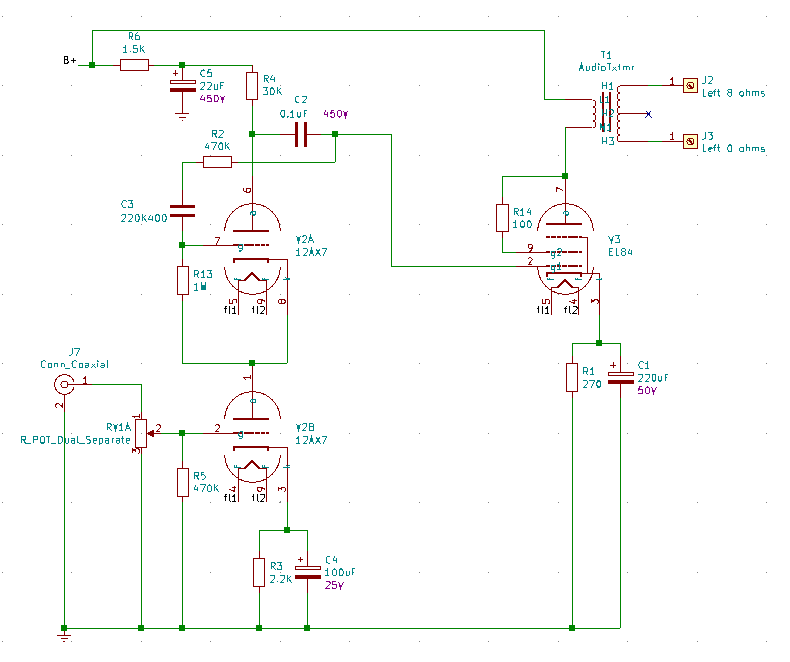
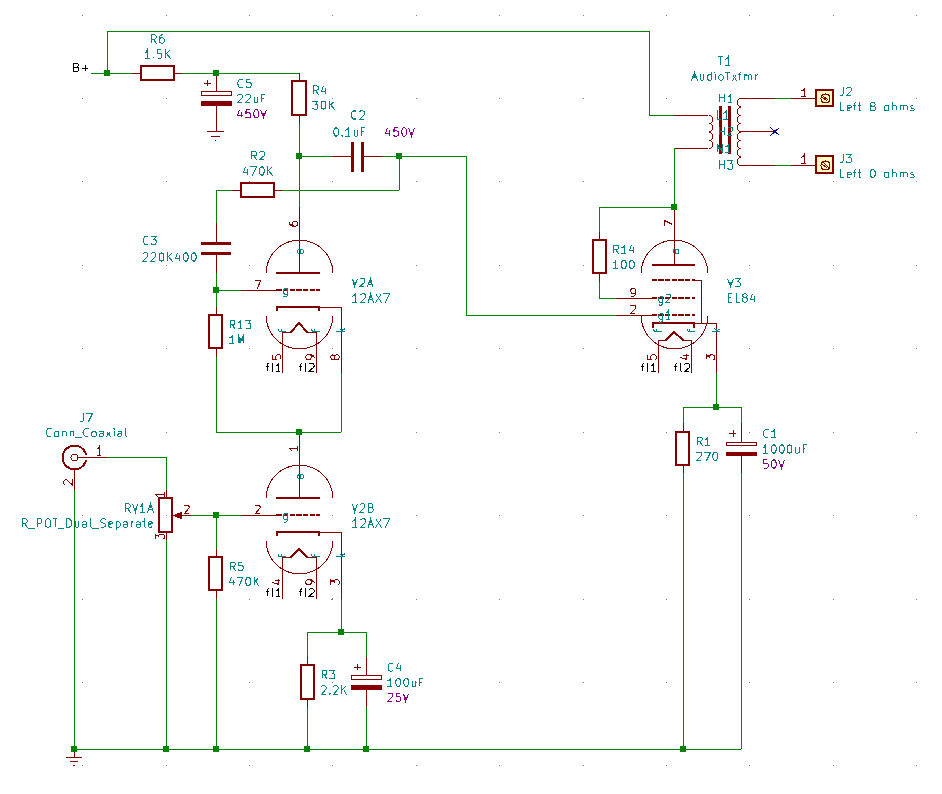
install new electrolytic capacitors

diff --git a/updated/README.md b/updated/README.md
@@ -12,6 +12,24 @@ The objective here:
 * To replace the pair of 6P1 tubes per channel with a single EL84 tube per channel.
 * The rectifier with regular diodes.
 
+### EL84 Power Tubes
+
+So based on the calculations (in the circuit analysis), to use an EL84, I would want the current through the cathode resistor to be about 40mA.  The resistor is 270 ohms, so I am looking for a voltage drop of about V=I*R or 0.04*270 or about 10V.
+
+In practise plugging in an EL84 and testing it out I see it stabilized around 11.75V. Or about 43mA. This is perfect and exactly where we would like it to be.
+
+Reading on https://www.18watt.com/viewtopic.php?t=12875 , the values we have is the values we should use. Ok then.
+
+Wire in the amp and do a test. Well. it seems to work. Let’s do the right channel.
+It sounds ok.
+
+I keep reading and finding schematics where the screen resistor should go to the B+, not the output transformer the plate goes to. This amp seems to be wired incorrectly then?
+
+Experiment to wire these to the B+. I only have the 100 ohm screen bypass resistors. I think it should be 1K.
+But when I do this, a terrible hum sound and buzzing. Ok, put that back. It might be the hum was because the resistor was 10x too low from what is recommended in this configuration? This is something I would like to understand later.
+
+### Conclusions
+
 By 2020-07-29 I was able meet my original objectives. And to do so without purchasing any electronic components or tubes. Which for me and my projects is highly unusual. And now I have a special sense of smug-ness as well.
 
 I orginally went with a 12AT7 tubes. As they have less gain then the 12AX7 tubes. But I found the sound to be crackly and brittle. I tried to replace the coupling capacitor (which is likely a 0.022uF capacitor) with a 0.1uF capacitor. This gives it a bit more bass response. But still not very good. I guess there is that problem were the 12AT7 is generally considered to be not musical at all. I ended up putting some old Mullard 12AX7 tubes I had in my junk drawer. They have "Holland" printed on them. And even do a really nice vintage filament flash when turning on. But they are really crisp and awesome sounding. Using old tubes (likely liberated from my Traynor amp) onto here is like a fine bottle of wine with peanut butter toast. But you only live once, so might as well enjoy the stuff I have rather than hoarding it forever and not using it.
@@ -51,7 +69,34 @@ We added the following parts (to the original schematic)
 
 Some small updates.
 
+* Replaced the electrolytic capacitors with United Chemicon branded capacitors. I have anxiety these capacitors are going to be the cheapest, poorest quality, Chinese made capacitors. Same voltage rating and values (except noted below).
+
+| Part | Value | Old Brand | Notes |
+|:-----|:------|:----------|:------|
+| C1   | 220uF | Samyoung  | This is now a 1000uF |
+| C4   | 100uF | Samyoung  | |
+| C5   | 22uF  | Samyoung  | |
+| C6   | 150uF | Philips   | |
+| C7   | 150uF | Philips   | |
+| C8   | 22uF  | Samyoung  | |
+| C9   | 100uF | Samyoung  | |
+| C12  | 220uF | Samyoung  | This is now a 1000uF |
+
+If they are even the brands they say they are. They could very well be counterfit even.
+
+All I see in the forums is "Replace all Philips caps!!!".
+
+Samyoung is a Korean brand, also known for their terrible quality and reliability.
+
+* Changed the values of the EL84 cathode bypass capacitor from 220uF to 1000uF This is beacuse I have been reading larger capacitor values here help with improving lower frequency responses.
+  * https://el34world.com/Forum/index.php?topic=9452.0
+
+I would like to find a more technical calculation for this. So far the sounds do not sound bad. But I can not tell if or how much added bass response I actually have here. I still need to get around to doing a frequency response analysis of this amp.
+
+* Replaced the charred looking 270 ohm resistors with new 270 ohm resistors. Though I ordered 3W kind, I think the old ones may have been 5W. Doh. Well. From the measured voltage and and computed current across this resistor, the power is only about 0.5watts. Though that was idle. I guess we should try to measure the voltage under full load somehow.  For now I will use them and if they burn up, I will replace them with higher power resistors.
+
 ## Ideas for future enhancements
 
 * Add balanced input channels (needs an op-amp) and TRS connector to convert from the balanced output from my mixer into the single unbalanced into the L/R channels.
 * Integrate the bluetooth receiver I have on my desk into the amp. Use the LED for connected to override the input selection, so that the input goes to the output from the bluetooth receiver. Some kind of reed relay here then.
+* Add a headphone jack. When a 6.35mm stereo plug is attached to the front, it will cut out the speaker outputs from the back. The trick is to balance the loading so the volume of the headphones is about the same as that on the speakers. Also my bose qc25 headphones have a high impedance, around 300 ohms. Need to figure out that first. Also I kind of don't want a cord going over to the amp. It would be awkward as the amp is out of the way.

diff --git a/original/README.md b/original/README.md
@@ -123,9 +123,6 @@ Plate to cathode voltage: 263V
 
 So according to https://robrobinette.com/Tube_Bias_Calculator.htm
 
-I need to change the 270 ohm resistor for a 470 ohm resistor to get the correct bias of 40mA for an EL84 The one we have now is basically half of what we need.
-
-I don’t have a 440 ohm 2 watt resistor. But I have 470 ohm 1 watt resistors. I can make a pair of two in series to get a 2 w resistor.But I don’t really feel like that. Lots of space I don’t have too.
 
 Measure the resistance on the primaries of the output transformers.  T1 (L):291 T3 (R):288
 So assume plate to cathode voltage is the same, 263. The left channel would have .90A and the right channel would have .91A
@@ -197,21 +194,9 @@ So we could probably get away with a single EL84 per side instead of the two 6P1
 | 9   | 9    | g2 |
 
 Since the amplifier already has 9 pin sockets, I can just use the sockets in the chassis.
+
 Also since I only need 1 EL84 tube for what was 2 6P1 tubes before, I can consume and re purpose the 2nd 9 pin socket that was for the 2nd 6P1 tube per channel, to be used for the preamp tube (see below). Because I need to de-populate the 8 pin socket that was used for the 6H8C tube before.
 
-So based on the calculations (in the circuit analysis), to use an EL84, I would want the current through the cathode resistor to be about 40mA.  The resistor is 270 ohms, so I am looking for a voltage drop of about V=I*R or 0.04*270 or about 10V.
-
-In practise plugging in an EL84 and testing it out I see it stabilized around 11.75V. Or about 43mA. This is perfect and exactly where we would like it to be.
-
-Reading on https://www.18watt.com/viewtopic.php?t=12875 , the values we have is the values we should use. Ok then.
-
-Wire in the amp and do a test. Well. it seems to work. Let’s do the right channel.
-It sounds ok.
-
-I keep reading and finding schematics where the screen resistor should go to the B+, not the output transformer the plate goes to. This amp seems to be wired incorrectly then?
-
-Experiment to wire these to the B+. I only have the 100 ohm screen bypass resistors. I think it should be 1K.
-But when I do this, a terrible hum sound and buzzing. Ok, put that back. It might be the hum was because the resistor was 10x too low from what is recommended in this configuration? This is something I would like to understand later.
 
 ## Preamp Tubes
 

diff --git a/README.md b/README.md
@@ -56,4 +56,6 @@ It does not look as cool without the bunches of interestingly shaped tubes, but 
 
 ## Second Wave of Modification
 
-2020-07-24:  I went ahead and ordered all around new resistors and capacitors from Digikey. I wanted some connectors for playing with Amateur radio stuff, and needed to pad an order to > $100. Waiting over the weekend for the parts to arrive.
+2020-07-24:  I went ahead and ordered all around new electrolytic capacitors from Digikey. I wanted some connectors for playing with Amateur radio stuff, and needed to pad an order to > $100. Waiting over the weekend for the parts to arrive.
+
+2020-07-27: The parts arrived. Installed the new capacitors and re-assembled the amplifier.
